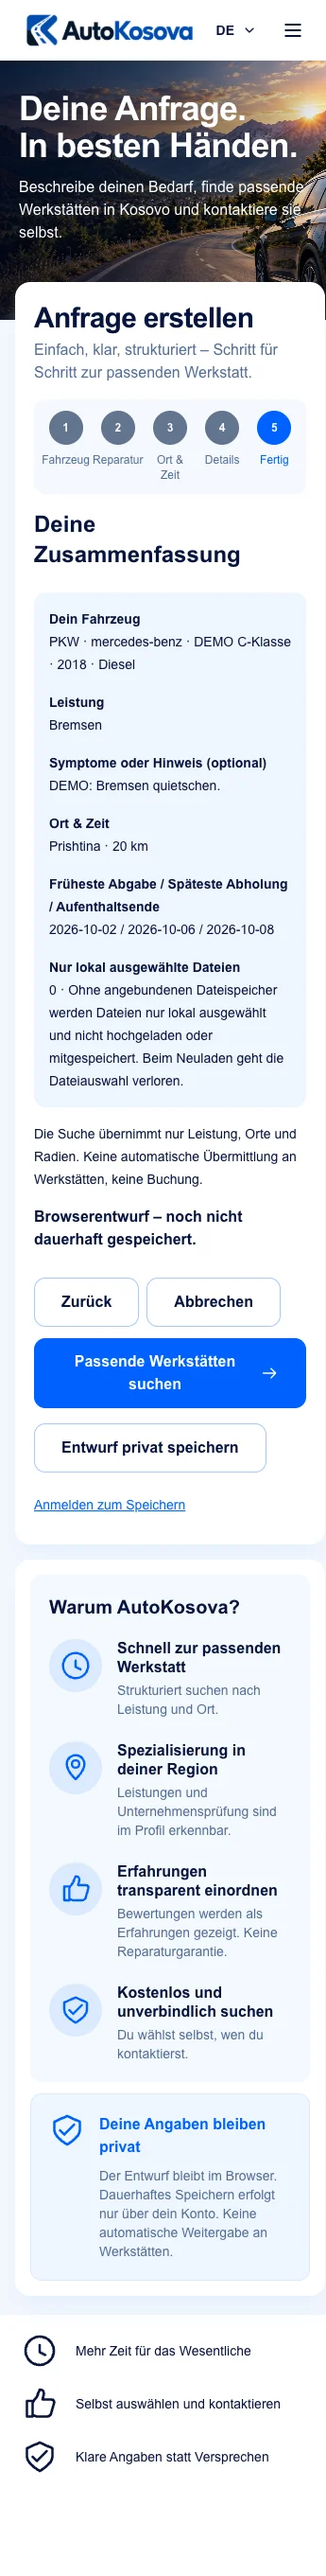
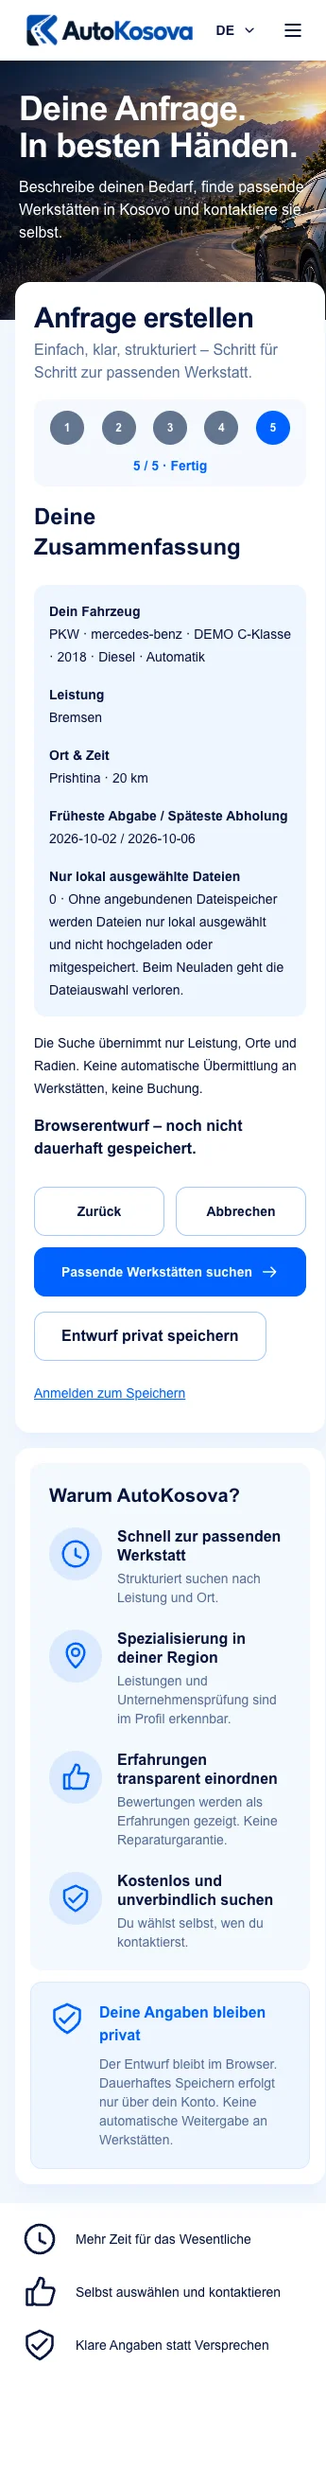
refactor: remove stay end from inquiry contract and storage (#43)

diff --git a/src/shared/request-copy.ts b/src/shared/request-copy.ts
@@ -45,7 +45,6 @@ export const requestCopy = {
     addPlace: 'Weiteren Ort hinzufügen',
     dropoff: 'Früheste Abgabe',
     pickup: 'Späteste Abholung',
-    stayEnd: 'Aufenthaltsende',
     attachments: 'Fotos oder Diagnosebericht (optional)',
     uploadHelp:
       'Ohne angebundenen Dateispeicher werden Dateien nur lokal ausgewählt und nicht hochgeladen oder mitgespeichert. Beim Neuladen geht die Dateiauswahl verloren.',
@@ -67,7 +66,7 @@ export const requestCopy = {
       'Bitte prüfe deine Fahrzeugangaben: Baujahr 1886–2100, Kilometerstand 0–2.000.000, Texte höchstens 120 Zeichen. Alle Angaben sind optional.',
     serviceError: 'Bitte wähle eine Leistung. Symptome sind optional, höchstens 2.000 Zeichen.',
     travelError:
-      'Bitte prüfe verschiedene Orte, ganze Radien von 5–100 km und die Datumsfolge: Abgabe ≤ Abholung ≤ Aufenthaltsende.',
+      'Bitte prüfe verschiedene Orte, ganze Radien von 5–100 km und die Datumsfolge: Abgabe ≤ Abholung.',
     fileError: 'Höchstens 5 PDF-, JPG- oder PNG-Dateien, jeweils 1 Byte bis 10 MB.',
     why: 'Warum AutoKosova?',
     benefit1: 'Schnell zur passenden Werkstatt',
@@ -130,7 +129,6 @@ export const requestCopy = {
     addPlace: 'Shto një vend tjetër',
     dropoff: 'Dorëzimi më i hershëm',
     pickup: 'Marrja më e vonshme',
-    stayEnd: 'Fundi i qëndrimit',
     attachments: 'Foto ose raport diagnostik (opsionale)',
     uploadHelp:
       'Pa ruajtje të lidhur të skedarëve, skedarët zgjidhen vetëm lokalisht dhe nuk ngarkohen apo ruhen. Zgjedhja humbet kur ringarkohet faqja.',
@@ -150,7 +148,7 @@ export const requestCopy = {
       'Kontrollo të dhënat: viti 1886–2100, kilometrat 0–2.000.000, tekstet deri në 120 karaktere. Të gjitha janë opsionale.',
     serviceError: 'Zgjidh një shërbim. Simptomat janë opsionale, deri në 2.000 karaktere.',
     travelError:
-      'Kontrollo vendet e ndryshme, rrezet e plota 5–100 km dhe datat: dorëzimi ≤ marrja ≤ fundi i qëndrimit.',
+      'Kontrollo vendet e ndryshme, rrezet e plota 5–100 km dhe datat: dorëzimi ≤ marrja.',
     fileError: 'Deri në 5 skedarë PDF, JPG ose PNG, secili nga 1 bajt deri në 10 MB.',
     why: 'Pse AutoKosova?',
     benefit1: 'Shpejt te servisi i duhur',
@@ -213,7 +211,6 @@ export const requestCopy = {
     addPlace: 'Add another place',
     dropoff: 'Earliest drop-off',
     pickup: 'Latest pickup',
-    stayEnd: 'End of stay',
     attachments: 'Photos or diagnostic report (optional)',
     uploadHelp:
       'Without connected file storage, files are selected locally only and are not uploaded or saved. Reloading clears the file selection.',
@@ -232,8 +229,7 @@ export const requestCopy = {
     vehicleError:
       'Check vehicle details: year 1886–2100, mileage 0–2,000,000, text up to 120 characters. All fields are optional.',
     serviceError: 'Choose a service. Symptoms are optional, up to 2,000 characters.',
-    travelError:
-      'Check distinct places, whole radii of 5–100 km and dates: drop-off ≤ pickup ≤ end of stay.',
+    travelError: 'Check distinct places, whole radii of 5–100 km and dates: drop-off ≤ pickup.',
     fileError: 'Up to 5 PDF, JPG or PNG files, each from 1 byte to 10 MB.',
     why: 'Why AutoKosova?',
     benefit1: 'Find a suitable workshop quickly',

diff --git a/src/server/repair-request-store.ts b/src/server/repair-request-store.ts
@@ -25,7 +25,6 @@ interface RepairRequestRow {
   readonly id: string;
   readonly latest_pickup_on: string;
   readonly service_category_id: string;
-  readonly stay_ends_on: string;
   readonly symptom: string | null;
   readonly vehicle_id: string | null;
 }
@@ -99,8 +98,8 @@ export class PostgresRepairRequestStore implements RepairRequestStore {
       await client.query(
         `INSERT INTO repair_request (
            id, owner_user_id, vehicle_id, service_category_id, symptom,
-           earliest_dropoff_on, latest_pickup_on, stay_ends_on, state
-         ) VALUES ($1, $2, $3, $4, $5, $6, $7, $8, 'draft')`,
+           earliest_dropoff_on, latest_pickup_on, state
+         ) VALUES ($1, $2, $3, $4, $5, $6, $7, 'draft')`,
         [
           requestId,
           ownerUserId,
@@ -109,7 +108,6 @@ export class PostgresRepairRequestStore implements RepairRequestStore {
           input.symptom ?? null,
           input.earliestDropoffOn,
           input.latestPickupOn,
-          input.stayEndsOn,
         ],
       );
 
@@ -131,7 +129,6 @@ export class PostgresRepairRequestStore implements RepairRequestStore {
         id: requestId,
         latestPickupOn: input.latestPickupOn,
         serviceCategoryId: input.serviceCategoryId,
-        stayEndsOn: input.stayEndsOn,
         symptom: input.symptom,
         vehicle: input.vehicle,
       };
@@ -153,7 +150,7 @@ export class PostgresRepairRequestStore implements RepairRequestStore {
       await this.setPrincipal(client, ownerUserId);
       const requestResult = await client.query<RepairRequestRow>(
         `SELECT id, created_at, service_category_id, symptom, earliest_dropoff_on,
-                latest_pickup_on, stay_ends_on, vehicle_id
+                latest_pickup_on, vehicle_id
          FROM repair_request
          WHERE id = $1 AND owner_user_id = $2`,
         [repairRequestId, ownerUserId],
@@ -188,7 +185,6 @@ export class PostgresRepairRequestStore implements RepairRequestStore {
         id: request.id,
         latestPickupOn: request.latest_pickup_on,
         serviceCategoryId: request.service_category_id,
-        stayEndsOn: request.stay_ends_on,
         symptom: request.symptom ?? undefined,
         vehicle,
       };

diff --git a/src/app/repair-request.component.ts b/src/app/repair-request.component.ts
@@ -121,7 +121,6 @@ export class RepairRequestComponent {
     earliestDropoffOn: ['', Validators.required],
     latestPickupOn: ['', Validators.required],
     serviceCategoryId: ['', Validators.required],
-    stayEndsOn: ['', Validators.required],
     symptom: ['', Validators.maxLength(REPAIR_REQUEST_LIMITS.maxSymptomLength)],
     vehicle: this.formBuilder.group({
       vehicleClass: [''],
@@ -159,6 +158,8 @@ export class RepairRequestComponent {
       // Older drafts offered a checkbox to exclude previously entered vehicle details.
       if (restored['useVehicle'] === false) delete restored['vehicle'];
       this.form.patchValue(restored);
+      // Re-serialize only the current form contract, dropping obsolete draft fields.
+      this.draft.write(this.form.getRawValue());
     }
     this.form.valueChanges.pipe(takeUntilDestroyed(this.destroyRef)).subscribe(() => {
       this.saved = false;
@@ -372,7 +373,6 @@ export class RepairRequestComponent {
       earliestDropoffOn: value.earliestDropoffOn,
       latestPickupOn: value.latestPickupOn,
       serviceCategoryId: value.serviceCategoryId as RepairRequestInput['serviceCategoryId'],
-      stayEndsOn: value.stayEndsOn,
       ...(value.symptom.trim() ? { symptom: value.symptom.trim() } : {}),
       ...(Object.keys(vehicle).length ? { vehicle } : {}),
     };
@@ -382,13 +382,11 @@ export class RepairRequestComponent {
     const controls = this.form.controls;
     controls.earliestDropoffOn.markAsTouched();
     controls.latestPickupOn.markAsTouched();
-    controls.stayEndsOn.markAsTouched();
     this.areas.markAllAsTouched();
     const input = this.toInput();
     if (
       controls.earliestDropoffOn.invalid ||
       controls.latestPickupOn.invalid ||
-      controls.stayEndsOn.invalid ||
       this.areas.invalid ||
       new Set(input.areas.map((area) => area.placeId)).size !== input.areas.length ||
       input.areas.some(

diff --git a/src/app/repair-request.component.html b/src/app/repair-request.component.html
@@ -320,13 +320,6 @@
                 type="date"
                 class="min-h-11 w-full min-w-0 rounded-lg border border-blue-200 bg-white px-3 py-2 text-ink focus:border-brand focus:outline-2 focus:outline-brand/30 [&.ng-invalid.ng-touched]:border-rose-600"
             /></label>
-            <label class="grid gap-1 text-sm"
-              >{{ text('stayEnd')
-              }}<input
-                formControlName="stayEndsOn"
-                type="date"
-                class="min-h-11 w-full min-w-0 rounded-lg border border-blue-200 bg-white px-3 py-2 text-ink focus:border-brand focus:outline-2 focus:outline-brand/30 [&.ng-invalid.ng-touched]:border-rose-600"
-            /></label>
           </div>
         }
         @if (step === 4) {
@@ -382,12 +375,10 @@
               }
             </div>
             <div>
-              <dt class="font-bold">
-                {{ text('dropoff') }} / {{ text('pickup') }} / {{ text('stayEnd') }}
-              </dt>
+              <dt class="font-bold">{{ text('dropoff') }} / {{ text('pickup') }}</dt>
               <dd>
                 {{ form.controls.earliestDropoffOn.value }} /
-                {{ form.controls.latestPickupOn.value }} / {{ form.controls.stayEndsOn.value }}
+                {{ form.controls.latestPickupOn.value }}
               </dd>
             </div>
             <div>

diff --git a/test/repair-request-postgres.test.ts b/test/repair-request-postgres.test.ts
@@ -29,7 +29,6 @@ test(
         earliestDropoffOn: '2026-10-02',
         latestPickupOn: '2026-10-06',
         serviceCategoryId: 'bremsen',
-        stayEndsOn: '2026-10-08',
         symptom: 'Fiktiver privater Hinweis',
         vehicle: {
           vehicleClass: 'suv',
@@ -63,7 +62,6 @@ test(
                 earliestDropoffOn: '2026-10-02',
                 latestPickupOn: '2026-10-06',
                 serviceCategoryId: 'bremsen',
-                stayEndsOn: '2026-10-08',
               },
               url: '/api/me/repair-requests',
             });
@@ -96,7 +94,6 @@ test(
       ]);
       assert.equal(restored.earliestDropoffOn, '2026-10-02');
       assert.equal(restored.latestPickupOn, '2026-10-06');
-      assert.equal(restored.stayEndsOn, '2026-10-08');
       assert.equal(restored.symptom, 'Fiktiver privater Hinweis');
       assert.deepEqual(restored.vehicle, {
         vehicleClass: 'suv',
@@ -110,7 +107,6 @@ test(
         areas: [{ placeId: 'xk-peja', radiusKm: 10 }],
         earliestDropoffOn: '2026-10-02',
         latestPickupOn: '2026-10-06',
-        stayEndsOn: '2026-10-08',
         serviceCategoryId: 'bremsen',
         vehicle: { vehicleClass: 'motorcycle', fuel: 'electric' },
       });

diff --git a/src/server/moderation-store.ts b/src/server/moderation-store.ts
@@ -69,7 +69,6 @@ interface RepairRequestRow {
   readonly id: string;
   readonly latest_pickup_on: Date | string;
   readonly service_category_id: StoredRepairRequest['serviceCategoryId'];
-  readonly stay_ends_on: Date | string;
   readonly symptom: string | null;
 }
 
@@ -424,7 +423,7 @@ export class PostgresModerationStore implements ModerationLifecycleStore {
         [principal.userId],
       );
       const requests = await client.query<RepairRequestRow>(
-        `SELECT id, service_category_id, symptom, earliest_dropoff_on, stay_ends_on, latest_pickup_on,
+        `SELECT id, service_category_id, symptom, earliest_dropoff_on, latest_pickup_on,
                 created_at
          FROM repair_request WHERE owner_user_id = $1 ORDER BY created_at, id`,
         [principal.userId],
@@ -489,7 +488,6 @@ export class PostgresModerationStore implements ModerationLifecycleStore {
           id: request.id,
           latestPickupOn: toDate(request.latest_pickup_on),
           serviceCategoryId: request.service_category_id,
-          stayEndsOn: toDate(request.stay_ends_on),
           ...(request.symptom ? { symptom: request.symptom } : {}),
         })),
         reviews: reviews.rows.map(toOwnReview),

diff --git a/src/shared/repair-request.ts b/src/shared/repair-request.ts
@@ -79,7 +79,6 @@ export interface RepairRequestInput {
   readonly earliestDropoffOn: string;
   readonly latestPickupOn: string;
   readonly serviceCategoryId: (typeof REPAIR_REQUEST_SERVICE_CATEGORIES)[number];
-  readonly stayEndsOn: string;
   readonly symptom?: string;
   readonly vehicle?: RepairRequestVehicle;
 }
@@ -93,13 +92,11 @@ export function isLocalCalendarDate(value: string): boolean {
 }
 
 export function hasConsistentTravelDates(
-  input: Pick<RepairRequestInput, 'earliestDropoffOn' | 'latestPickupOn' | 'stayEndsOn'>,
+  input: Pick<RepairRequestInput, 'earliestDropoffOn' | 'latestPickupOn'>,
 ): boolean {
   return (
     isLocalCalendarDate(input.earliestDropoffOn) &&
     isLocalCalendarDate(input.latestPickupOn) &&
-    isLocalCalendarDate(input.stayEndsOn) &&
-    input.earliestDropoffOn <= input.latestPickupOn &&
-    input.latestPickupOn <= input.stayEndsOn
+    input.earliestDropoffOn <= input.latestPickupOn
   );
 }

diff --git a/src/server/app.ts b/src/server/app.ts
@@ -119,7 +119,6 @@ const repairRequestBodySchema = {
     earliestDropoffOn: { pattern: '^\\d{4}-\\d{2}-\\d{2}$', type: 'string' },
     latestPickupOn: { pattern: '^\\d{4}-\\d{2}-\\d{2}$', type: 'string' },
     serviceCategoryId: { enum: REPAIR_REQUEST_SERVICE_CATEGORIES, type: 'string' },
-    stayEndsOn: { pattern: '^\\d{4}-\\d{2}-\\d{2}$', type: 'string' },
     symptom: { maxLength: REPAIR_REQUEST_LIMITS.maxSymptomLength, type: 'string' },
     vehicle: {
       additionalProperties: false,
@@ -144,7 +143,7 @@ const repairRequestBodySchema = {
       type: 'object',
     },
   },
-  required: ['areas', 'earliestDropoffOn', 'latestPickupOn', 'serviceCategoryId', 'stayEndsOn'],
+  required: ['areas', 'earliestDropoffOn', 'latestPickupOn', 'serviceCategoryId'],
   type: 'object',
 };
 

diff --git a/test/repair-requests.test.ts b/test/repair-requests.test.ts
@@ -20,7 +20,6 @@ function validRequest() {
     earliestDropoffOn: '2026-10-02',
     latestPickupOn: '2026-10-06',
     serviceCategoryId: 'bremsen',
-    stayEndsOn: '2026-10-08',
     symptom: 'Fiktives Quietschen beim Bremsen.',
     vehicle: {
       engineDetails: 'Fiktiver Benzinmotor',
@@ -78,6 +77,7 @@ test('repair requests stay private and hand only service and areas to matching',
     assert.equal(created.json().matchingPath.includes('2026-10-02'), false);
     assert.equal(created.json().matchingPath.includes('Fiktives'), false);
     assert.equal(owner.statusCode, 200);
+    assert.equal(Object.hasOwn(owner.json(), 'stayEndsOn'), false);
     assert.equal(owner.json().symptom, 'Fiktives Quietschen beim Bremsen.');
     assert.equal(stranger.statusCode, 404);
   } finally {

diff --git a/src/app/repair-request.component.spec.ts b/src/app/repair-request.component.spec.ts
@@ -6,7 +6,6 @@ import { RepairRequestDraft } from './repair-request-draft';
 const travel = {
   earliestDropoffOn: '2026-10-02',
   latestPickupOn: '2026-10-06',
-  stayEndsOn: '2026-10-08',
   serviceCategoryId: 'bremsen',
   areas: [{ placeId: 'xk-pristina', radiusKm: 20 }],
 };
@@ -43,6 +42,8 @@ describe('Five-step private repair request', () => {
     expect(component['step']).toBe(2);
     component['form'].patchValue({ ...travel, symptom: 'Fiktiver Hinweis' });
     component['next']();
+    fixture.detectChanges();
+    expect(page.querySelectorAll('input[type="date"]')).toHaveLength(2);
     component['form'].controls.latestPickupOn.setValue('2026-10-01');
     component['next']();
     expect(component['step']).toBe(3);

diff --git a/src/server/access.ts b/src/server/access.ts
@@ -158,7 +158,6 @@ export interface StoredRepairRequest {
   readonly id: string;
   readonly latestPickupOn: string;
   readonly serviceCategoryId: string;
-  readonly stayEndsOn: string;
   readonly symptom?: string;
   readonly vehicle?: RepairRequestInput['vehicle'];
 }
@@ -1333,7 +1332,6 @@ export class AccessStore implements ReviewStore {
       id: request.id,
       latestPickupOn: request.input.latestPickupOn,
       serviceCategoryId: request.input.serviceCategoryId,
-      stayEndsOn: request.input.stayEndsOn,
       symptom: request.input.symptom,
       vehicle: request.input.vehicle,
     };

diff --git a/test/moderation-lifecycle-postgres.test.ts b/test/moderation-lifecycle-postgres.test.ts
@@ -79,8 +79,8 @@ test(
       );
       await client.query(
         `INSERT INTO repair_request (
-           id, owner_user_id, service_category_id, earliest_dropoff_on, stay_ends_on, latest_pickup_on
-         ) VALUES ($1, $2, 'bremsen', '2026-08-01', '2026-08-10', '2026-08-05')`,
+           id, owner_user_id, service_category_id, earliest_dropoff_on, latest_pickup_on
+         ) VALUES ($1, $2, 'bremsen', '2026-08-01', '2026-08-05')`,
         [requestId, authorId],
       );
       await client.query(
